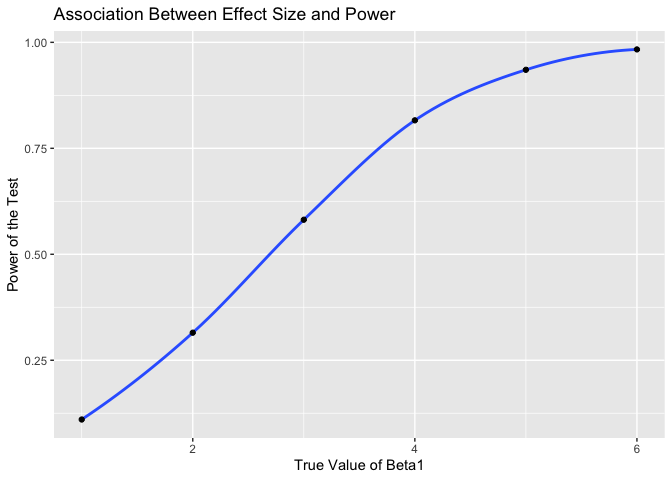
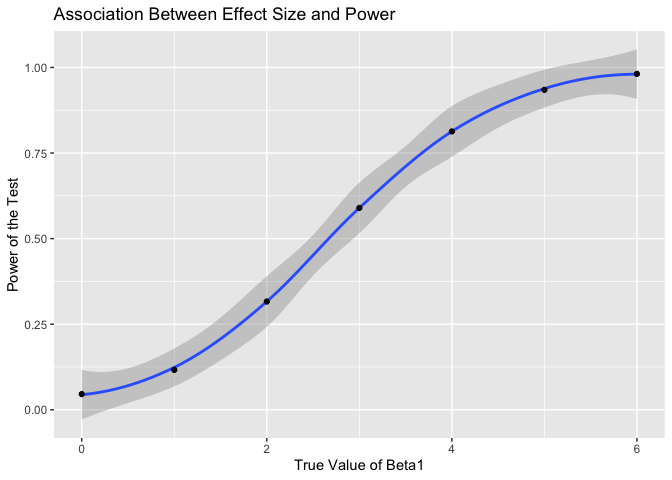
final tweaks

diff --git a/p8105_hw5_bg2645.md b/p8105_hw5_bg2645.md
@@ -255,11 +255,11 @@ longstudy_files %>%
 ![](p8105_hw5_bg2645_files/figure-gfm/unnamed-chunk-4-1.png)<!-- -->
 
   - Based on the graph, observation values for subjects in the
-    experimental arm seemed to increase as the weeks progressed - thus
-    in general there was a positive upward trend. However, for
-    participants in the control arm the observation values seemed to
-    stay fairly constant, though with slight fluctuations, as the weeks
-    progressed.
+    experimental arm seemed to increase as the weeks progressed, though
+    there were still slight fluctuations - but in general there was a
+    positive upward trend. However, for participants in the control arm
+    the observation values seemed to stay fairly constant, though with
+    slight fluctuations, as the weeks progressed.
 
 ## Problem 3
 
@@ -319,7 +319,7 @@ sim_results
 
 ``` r
   new_sim_results = 
-  tibble(new_beta1 = c(1,2,3,4,5,6)) %>% 
+  tibble(new_beta1 = c(0,1,2,3,4,5,6)) %>% 
   mutate(
     output_lists = map(.x = new_beta1, 
                        ~rerun(10000, sim_regression(beta1 = .x))),
@@ -329,20 +329,20 @@ sim_results
 new_sim_results
 ```
 
-    ## # A tibble: 60,000 x 3
+    ## # A tibble: 70,000 x 3
     ##    new_beta1 beta1_hat p_value
     ##        <dbl>     <dbl>   <dbl>
-    ##  1         1    3.03    0.0247
-    ##  2         1    1.39    0.295 
-    ##  3         1    1.93    0.103 
-    ##  4         1    0.0151  0.990 
-    ##  5         1    0.111   0.944 
-    ##  6         1   -1.24    0.366 
-    ##  7         1    1.02    0.301 
-    ##  8         1    1.82    0.223 
-    ##  9         1    2.35    0.0765
-    ## 10         1    2.46    0.0966
-    ## # … with 59,990 more rows
+    ##  1         0    2.03     0.123
+    ##  2         0    0.390    0.767
+    ##  3         0    0.930    0.423
+    ##  4         0   -0.985    0.411
+    ##  5         0   -0.889    0.575
+    ##  6         0   -2.24     0.108
+    ##  7         0    0.0163   0.987
+    ##  8         0    0.819    0.579
+    ##  9         0    1.35     0.299
+    ## 10         0    1.46     0.317
+    ## # … with 69,990 more rows
 
 **Make a plot showing the proportion of times the null was rejected (the
 power of the test) on the y axis and the true value of beta1 on the x
@@ -364,16 +364,6 @@ ggplot(aes(x = new_beta1, y = power)) +
 ```
 
     ## `geom_smooth()` using method = 'loess' and formula 'y ~ x'
-
-    ## Warning in simpleLoess(y, x, w, span, degree = degree, parametric =
-    ## parametric, : Chernobyl! trL>n 6
-    
-    ## Warning in simpleLoess(y, x, w, span, degree = degree, parametric =
-    ## parametric, : Chernobyl! trL>n 6
-
-    ## Warning in sqrt(sum.squares/one.delta): NaNs produced
-
-    ## Warning in stats::qt(level/2 + 0.5, pred$df): NaNs produced
 
 ![](p8105_hw5_bg2645_files/figure-gfm/unnamed-chunk-8-1.png)<!-- -->
 
@@ -415,5 +405,6 @@ geom_line(aes(color = "Test 1"))  +
     that the sample average of beta1\_hat across tests for which the
     null is rejected is not equal to the true value of beta1. This is
     because there is a large difference when the true value of beta 1 is
-    small, as the true value of beta1 increases the difference between
-    the two tests becomes smaller.
+    small (eg. the difference is particularily apparent when the true
+    value of beta1 is ~1-2), as the true value of beta1 increases the
+    difference between the two tests becomes smaller.
